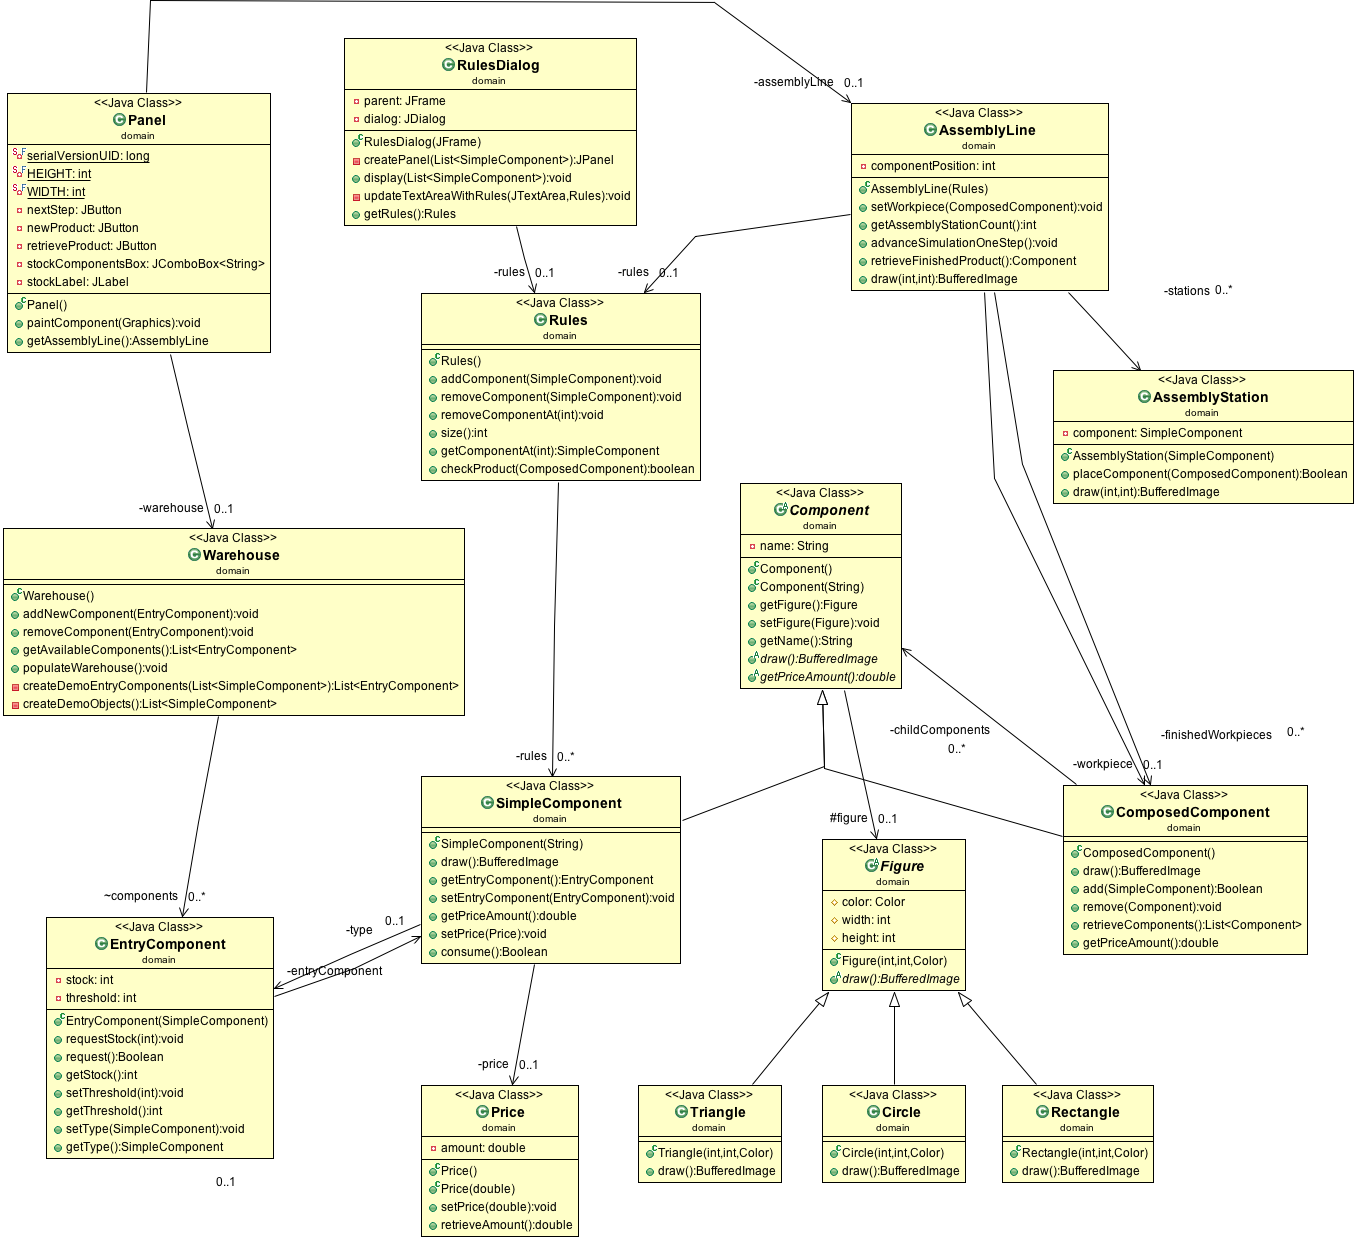
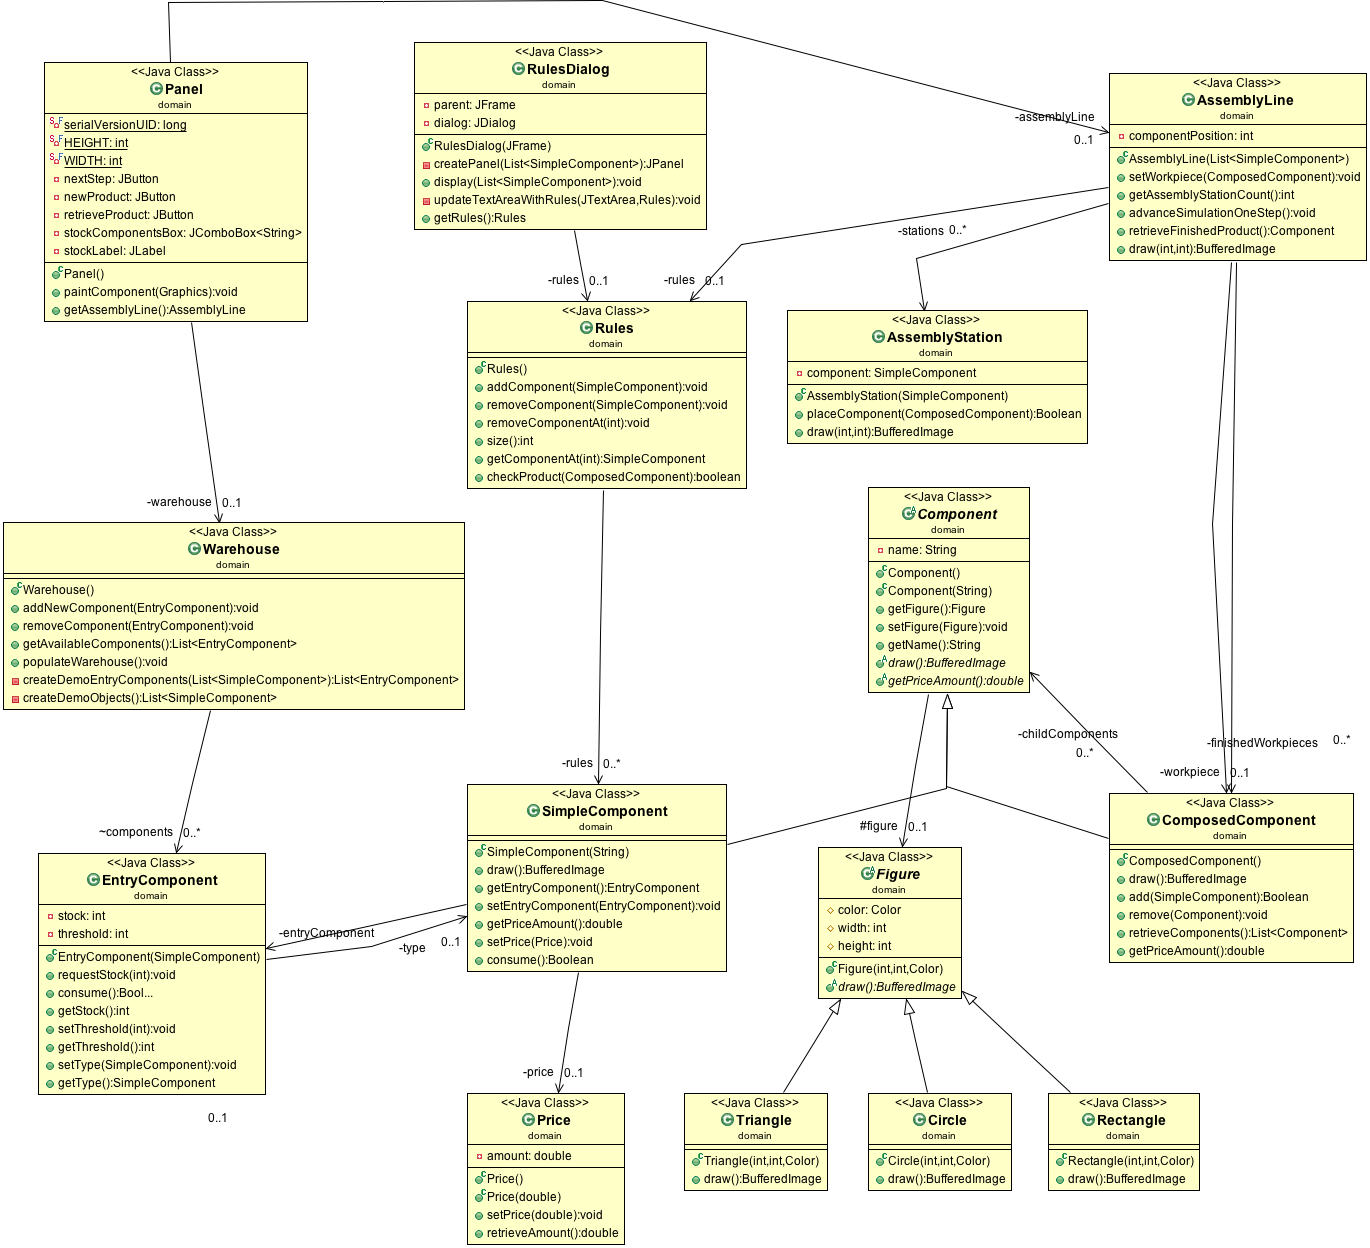
refactor request() -> consume()

diff --git a/AssemblyLine/src/domain/SimpleComponent.java b/AssemblyLine/src/domain/SimpleComponent.java
@@ -40,7 +40,7 @@ public class SimpleComponent extends Component{
 		if (entryComponent == null) {
 			return false;
 		}
-		return entryComponent.request();
+		return entryComponent.consume();
 	}
 	
 }

diff --git a/AssemblyLine/src/domain/EntryComponent.java b/AssemblyLine/src/domain/EntryComponent.java
@@ -14,7 +14,7 @@ public class EntryComponent {
 		this.stock = n;
 	}
 	
-	public Boolean request(){
+	public Boolean consume(){
 		if (stock <= 0) {
 			return false;
 		}
